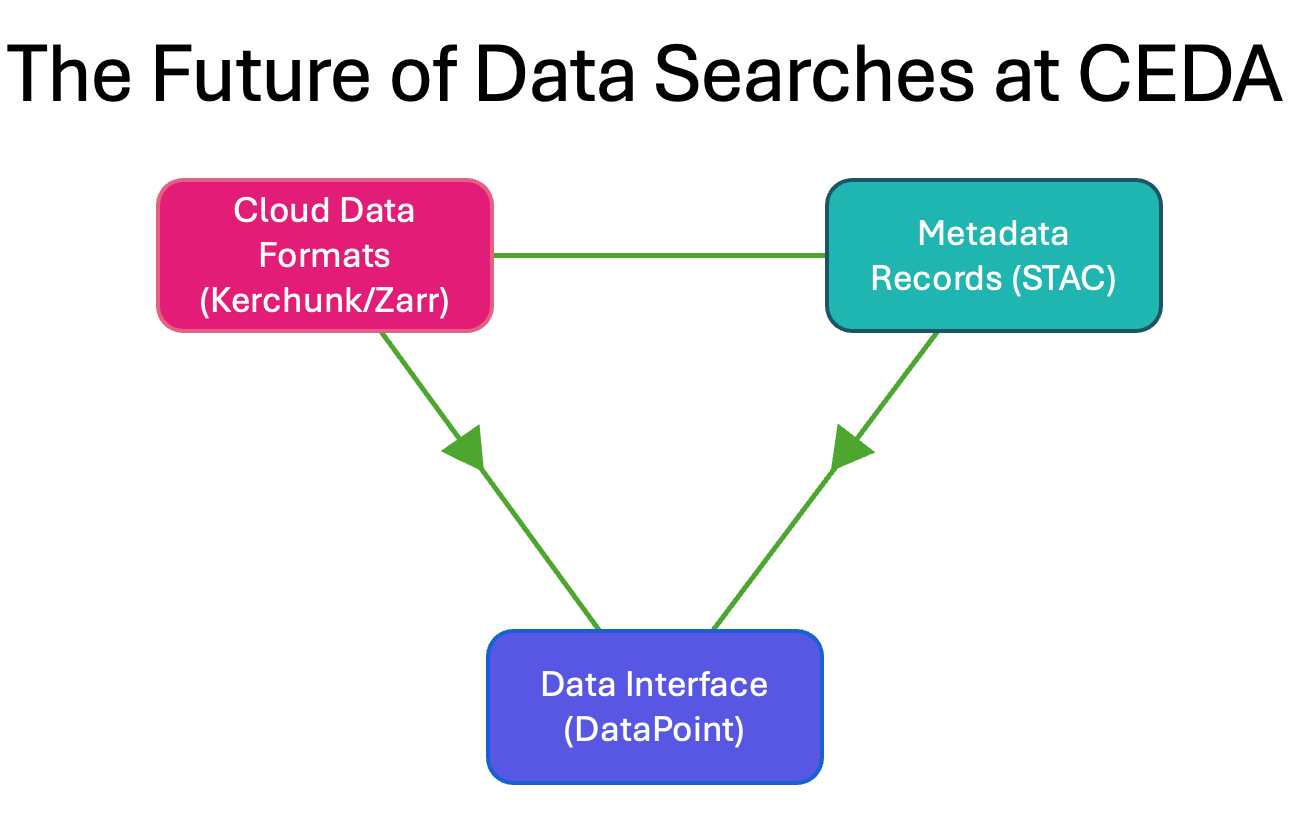
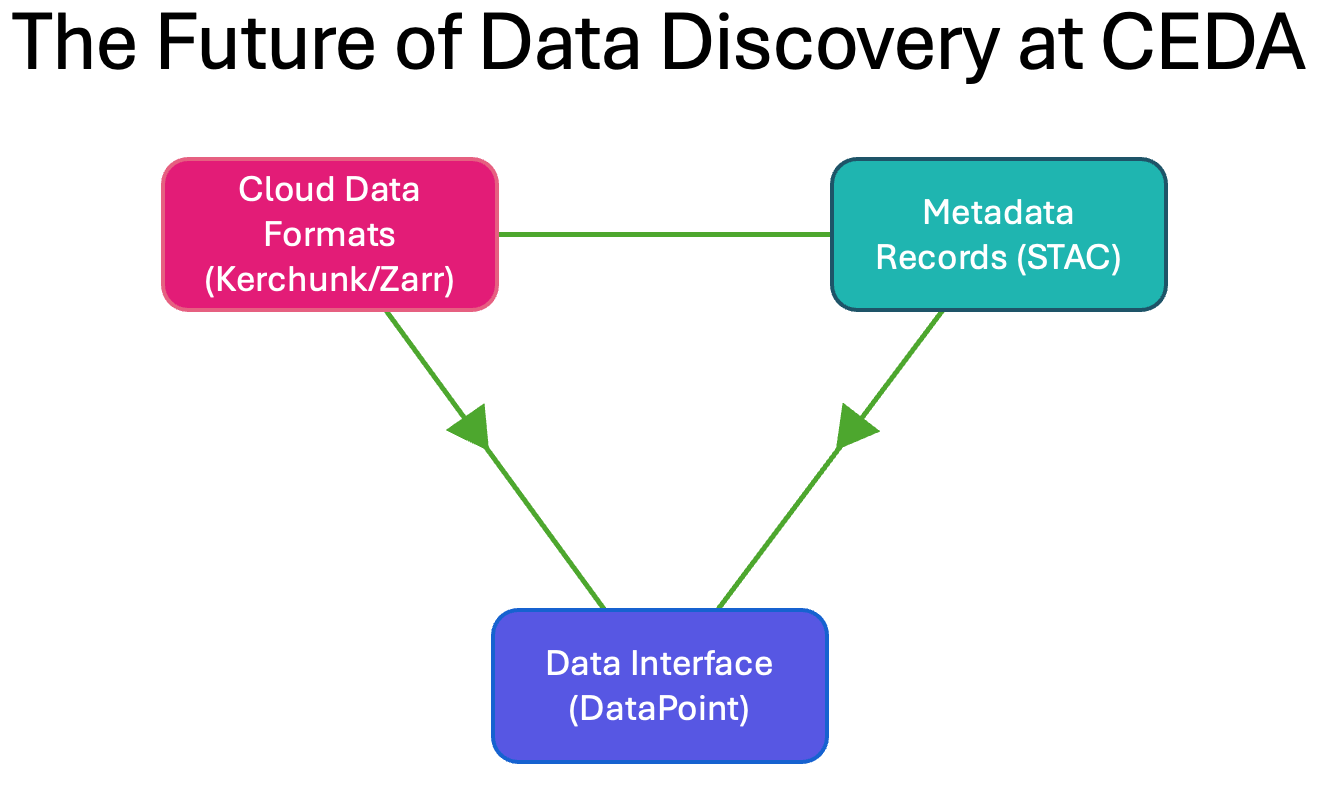
Deploying to gh-pages from @ cedadev/datapoint@e5796d1862f76aa0ae90afc858f775f3202801f7 🚀

diff --git a/inspiration.html b/inspiration.html
@@ -145,7 +145,7 @@ The next step towards greater data accessibility will be to dramatically expand 
 cloud formats required for DataPoint. We have well established pipelines for generating both, which will become immediately
 available to all DataPoint users when published to our production indexes. The below diagram illustrates these three components
 delivering a cohesive data search service.</p>
-<img alt="The connection between creating cloud formats and STAC records to be used by the DataPoint API." src="_images/SearchFutures.png" />
+<img alt="The connection between creating cloud formats and STAC records to be used by the DataPoint API for Data Discovery." src="_images/SearchFutures.png" />
 </section>
 </section>
 
